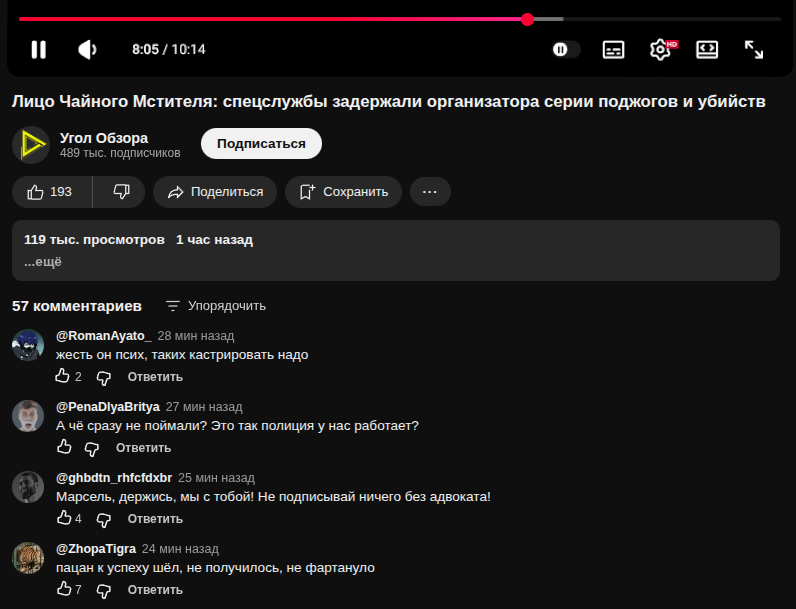
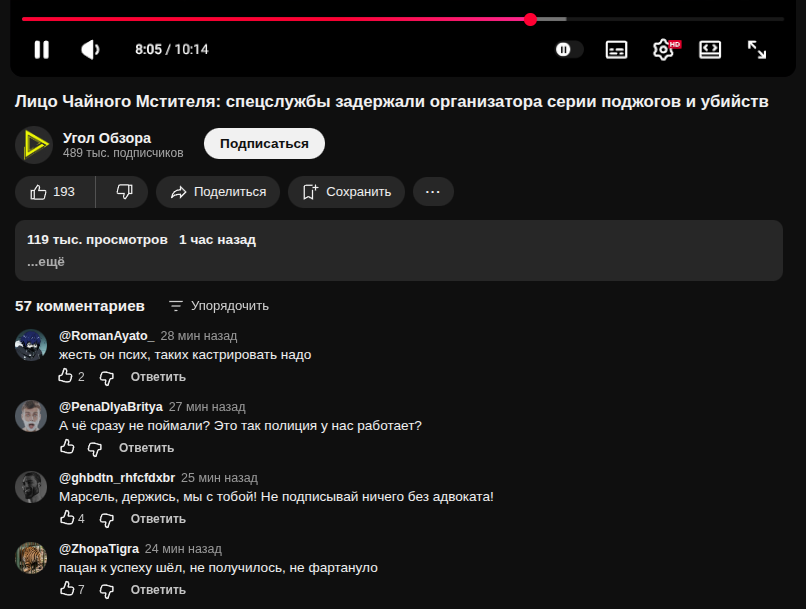
Add files via upload

diff --git a/books/mondschein/chapters/32.html b/books/mondschein/chapters/32.html
@@ -56,8 +56,23 @@
 <p>Пауза затянулась до предела. Игорь сделал шаг вперёд, уже явно добиваясь хоть какого-то ответа.</p>
 <p>— Слушай, ты будешь помогать или нет?</p>
 <p>Бог не ответил. В его глазах плескалась бездонная печаль и жгучее разочарование. Он не собирался участвовать в этой сделке с совестью. В его абсолютном молчании читался отказ. Совершенно непоколебимый.</p>
-<p>Игорь понял это безмолвие мгновенно. В этот самый сложный, самый страшный момент, когда его мир трещал по швам, его единственный союзник, его «брат», отвернулся от него из-за своих высокопарных принципов.</p>
-<p>Йельшас медленно отступил назад, погружаясь в полумрак угла. Он больше не собирался делать ни единого шага навстречу.</p>
+<p>И тогда Йельшас поднял руку. Игорь вдруг всем нутром ощутил: одно движение этой полупрозрачной ладони — и силы не станет. Сила, которую он два месяца считал своей, никогда своей не была. Её дали. А то, что дали — могут и отобрать.</p>
+<p>Игорь застыл. Дыхание перехватило, во рту пересохло.</p>
+<p>— Ты… — только и сумел выдавить он.</p>
+<p>— Я могу её забрать, — ответил Йельшас, глядя на побелевшее лицо напротив.</p>
+<p>У Игоря по спине прошёл холод, какого он не знал давно.</p>
+<p><br></p>
+<p>Секунду рука бога висела в воздухе между ними — приговор, которому нужно было только упасть.</p>
+<p>А потом Йельшас опустил её.</p>
+<p>— Но если я заберу свою силу против твоей воли, — проговорил он всё тем же тоном, — что останется? Сломанный и раздавленный человек, лишённый последнего.</p>
+<p>Игорь молчал, оцепенев.</p>
+<p>— Мне нужен брат, а не обломок, — продолжил бог. — Ты ещё можешь остановиться.</p>
+<p>Он отступил на шаг, в полумрак.</p>
+<p>— Ты отдашь её сам. Если поймёшь, — он помолчал. — А до тех пор я больше не могу быть твоими крыльями.</p>
+<p><br></p>
+<p>Игорь понял это по-своему. Не так, как было сказано.</p>
+<p>В этот самый сложный, самый страшный момент, когда его мир трещал по швам, его единственный союзник, его <em>«брат»</em>, отвернулся от него из-за своих высокопарных принципов. Мог бы помочь довести дело до конца — а вместо этого читает проповеди и грозит забрать силу. Бросает. Именно сейчас.</p>
+<p>Йельшас медленно отступил ещё дальше, погружаясь в полумрак угла. Он больше не собирался делать ни единого шага навстречу.</p>
 <p>— Ладно, — прошипел Игорь. Он упрямо вскинул подбородок, пытаясь скрыть за злостью резкую, разрывающую боль от этого предательства. — Хрен с тобой. Сам справлюсь.</p>
 <p>Он остался абсолютно один, наедине со своим планом, своей виной и тикающим в голове таймером, отсчитывающим время до следующего удара. И с решением, которое ему теперь предстояло воплощать в жизнь без единого шанса на поддержку.</p>
 <p><br></p>

diff --git a/books/mondschein/chapters/29.html b/books/mondschein/chapters/29.html
@@ -67,7 +67,7 @@
 <p>— Многое, — произнёс бог, но тут же напомнил: — Ты не ответил на мой вопрос.</p>
 <p>— А? — повернулся тот. — Ты про диалог?</p>
 <p>— Да.</p>
-<p>Игорь медленно побарабанил пальцами по столу, выдерживая паузу, и повернулся к Йельшасу.</p>
+<p>Игорь выдержал паузу — ровно такую, какая требуется шахматисту перед очевидным, но красивым ходом.</p>
 <p>— Видишь ли, курица без головы ещё может жить и бегать какое-то время.</p>
 <p>— Курица? Без головы? — бог обернулся, его лицо выражало искреннее недоумение.</p>
 <p>— Это метафора такая, — пояснил Игорь. — Система может действовать какое-то время по инерции, даже лишившись руководства.</p>
@@ -99,7 +99,7 @@
 <p>— Нет. В его мыслях нет этой информации.</p>
 <p>— То есть? — Игорь нахмурился. — Он ничего не знает о других центрах?</p>
 <p>— Он знает, что они существуют. Но больше ничего.</p>
-<p>Пальцы забарабанили по столешнице. Схема казалась классической для спецслужб. Или классической для угроз, которые система не в силах понять, а потому пытается защититься глухой изоляцией ячеек.</p>
+<p>Игорь досадливо цыкнул и прошёлся по комнате. Схема казалась классической для спецслужб. Или классической для угроз, которые система не в силах понять, а потому пытается защититься глухой изоляцией ячеек.</p>
 <p>— Неплохо, — процедил он. — Прочухали, что мы можем читать мысли, и решили не давать своим шавкам слишком много инфы. Хвалю за сообразительность, но им это не поможет.</p>
 <p>— Ты хочешь, чтобы я продолжил искать остальные? — уточнил Йельшас.</p>
 <p>— Да. Мне нужно знать, сколько у них подразделений, где они находятся, кто руководит, какие у них ресурсы и всё остальное. Продолжай собирать информацию. А я пока подготовлю кое-что.</p>
@@ -213,7 +213,7 @@
 <p><em>«Дата рождения? Это не секрет. Адрес регистрации — тоже»</em>.</p>
 <p><br></p>
 <p>Когда она продиктовала дату рождения и адрес, Светлана Геннадьевна продолжила:</p>
-<p>— Принято. Теперь, для второго этапа верификации, мне нужен номер вашего документа, удостоверяющего личность. Серия и номер паспорта.</p>
+<p>— Принято. Теперь для второго этапа верификации мне нужен номер вашего документа, удостоверяющего личность. Серия и номер паспорта.</p>
 <p>Рита замерла. Пальцы инстинктивно сжали телефон.</p>
 <p>— Подождите, — она насторожилась. — Я не уверена, что могу диктовать паспортные данные по телефону.</p>
 <p>— Ваша осторожность абсолютно обоснована, — без малейшей заминки ответила сотрудница. — Я работаю с подобными случаями регулярно. И, честно говоря, была бы удивлена, если бы вы не задали этот вопрос.</p>
